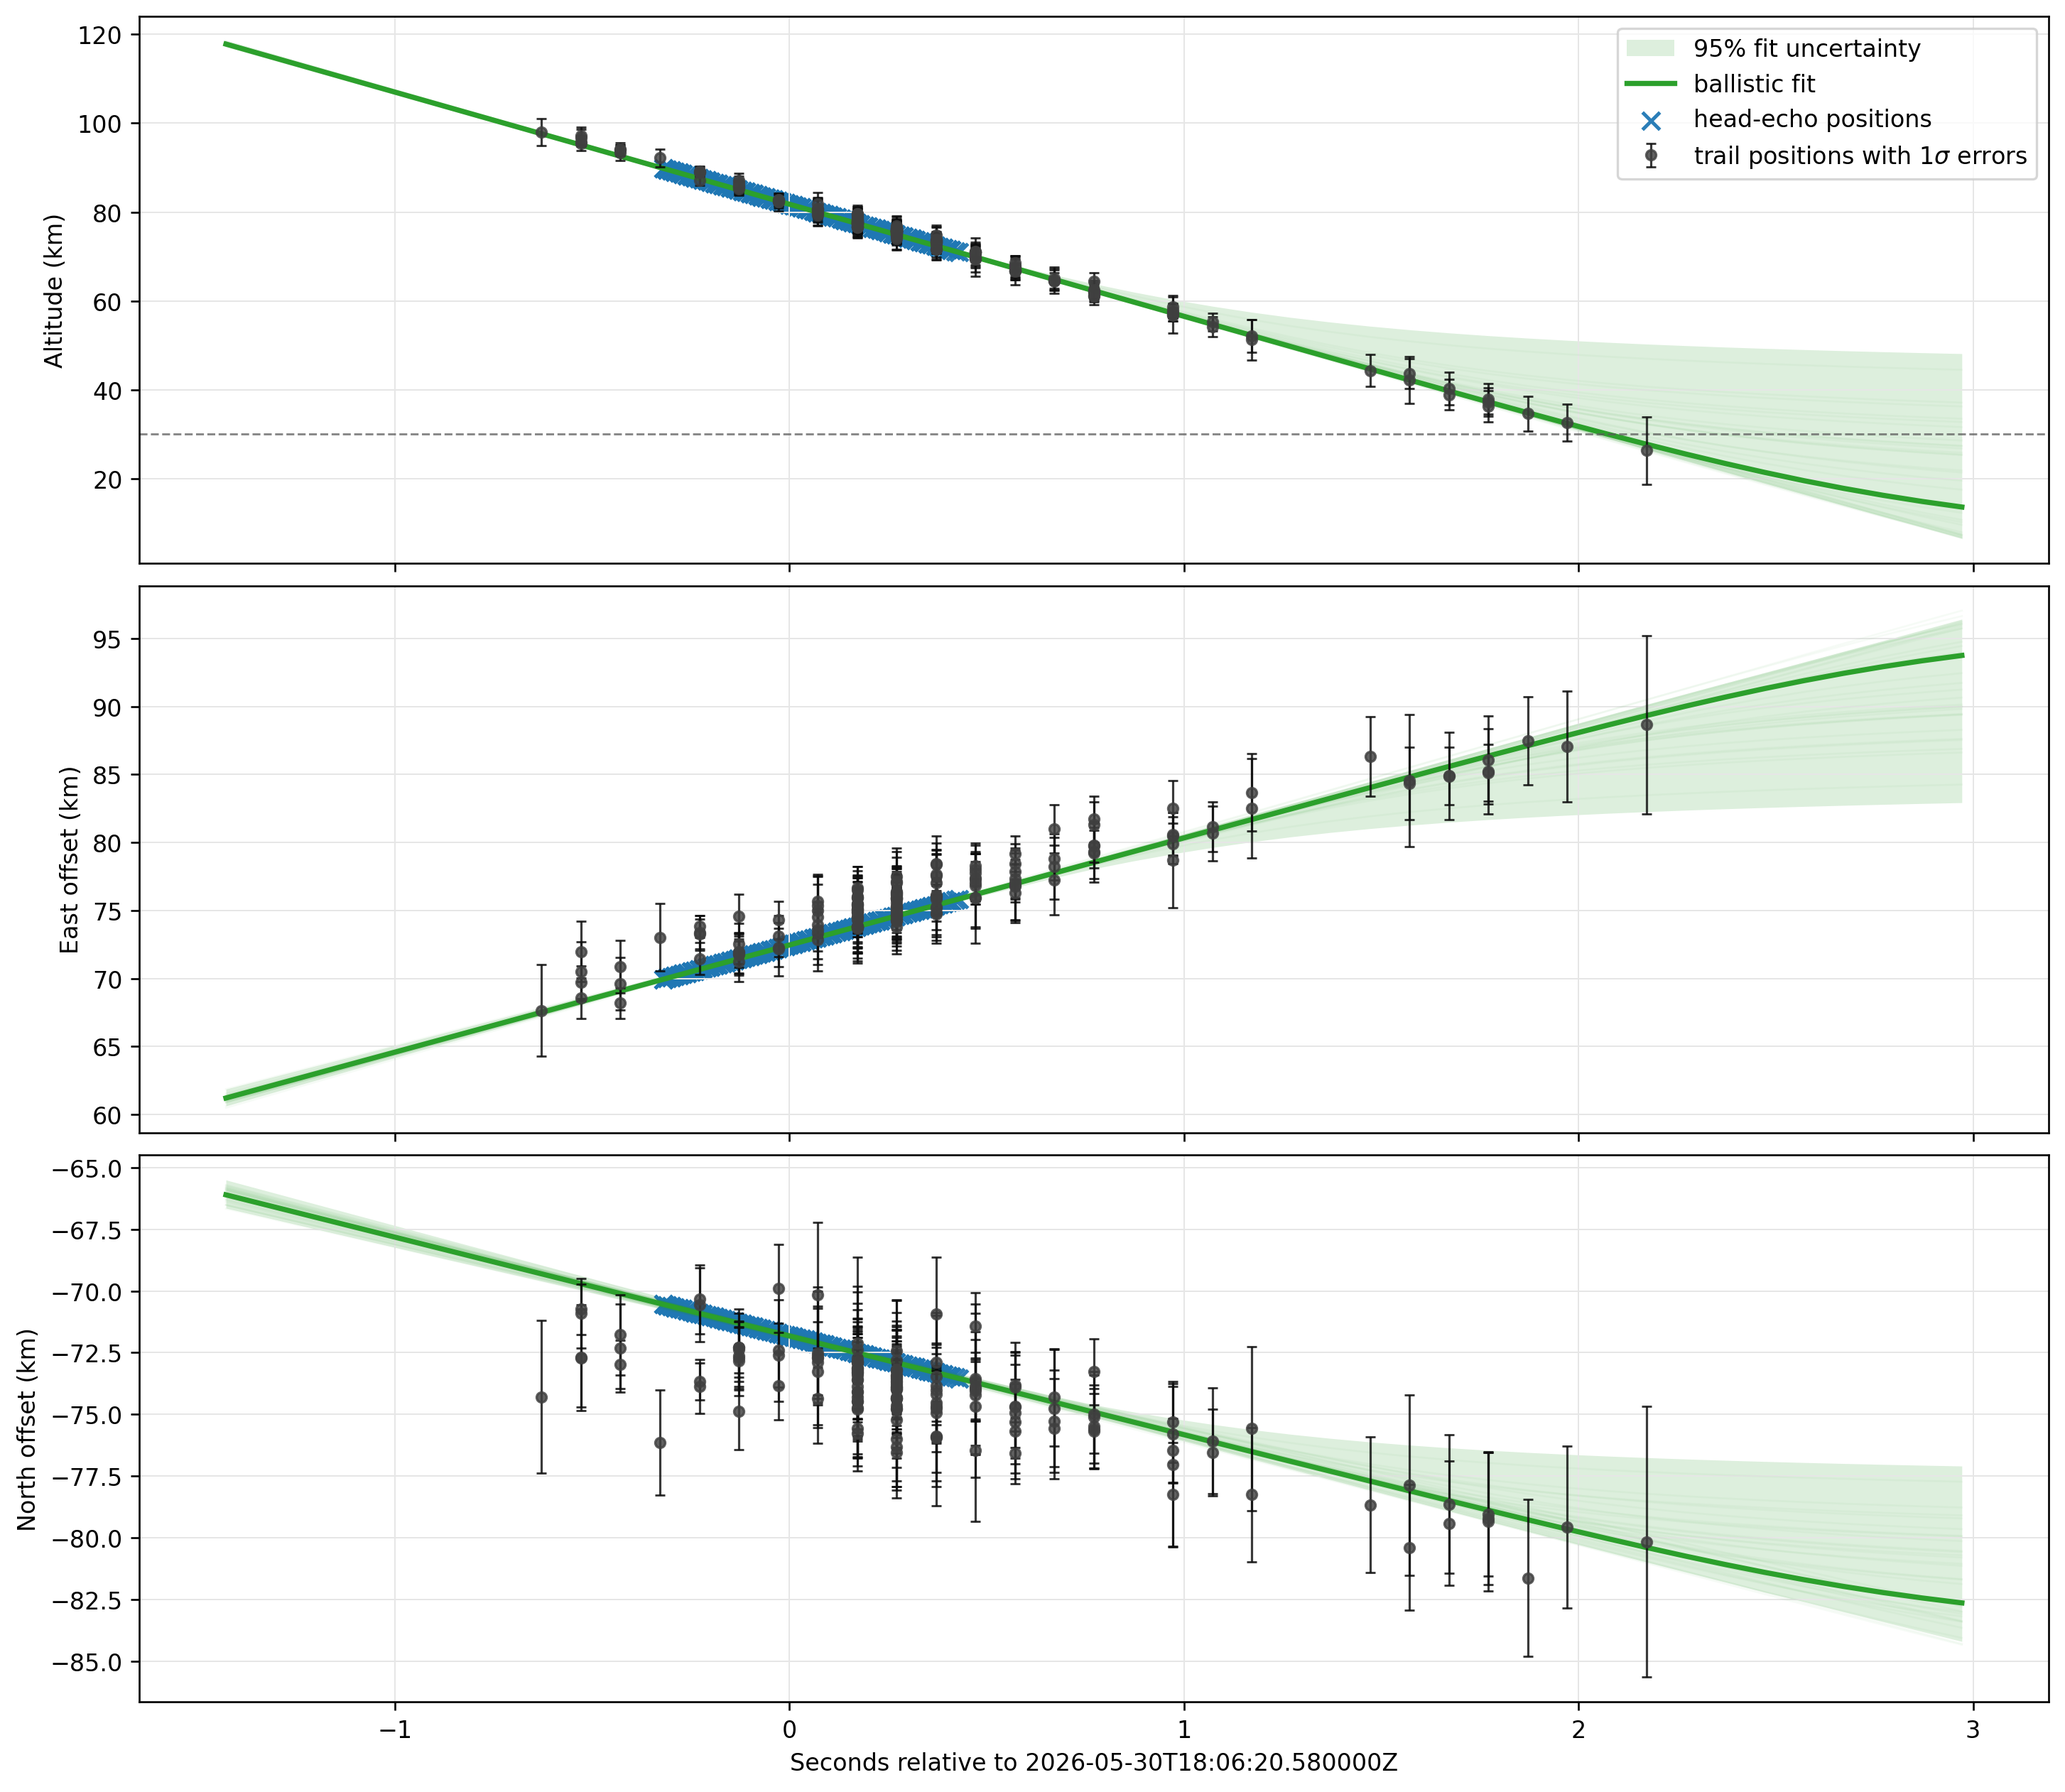
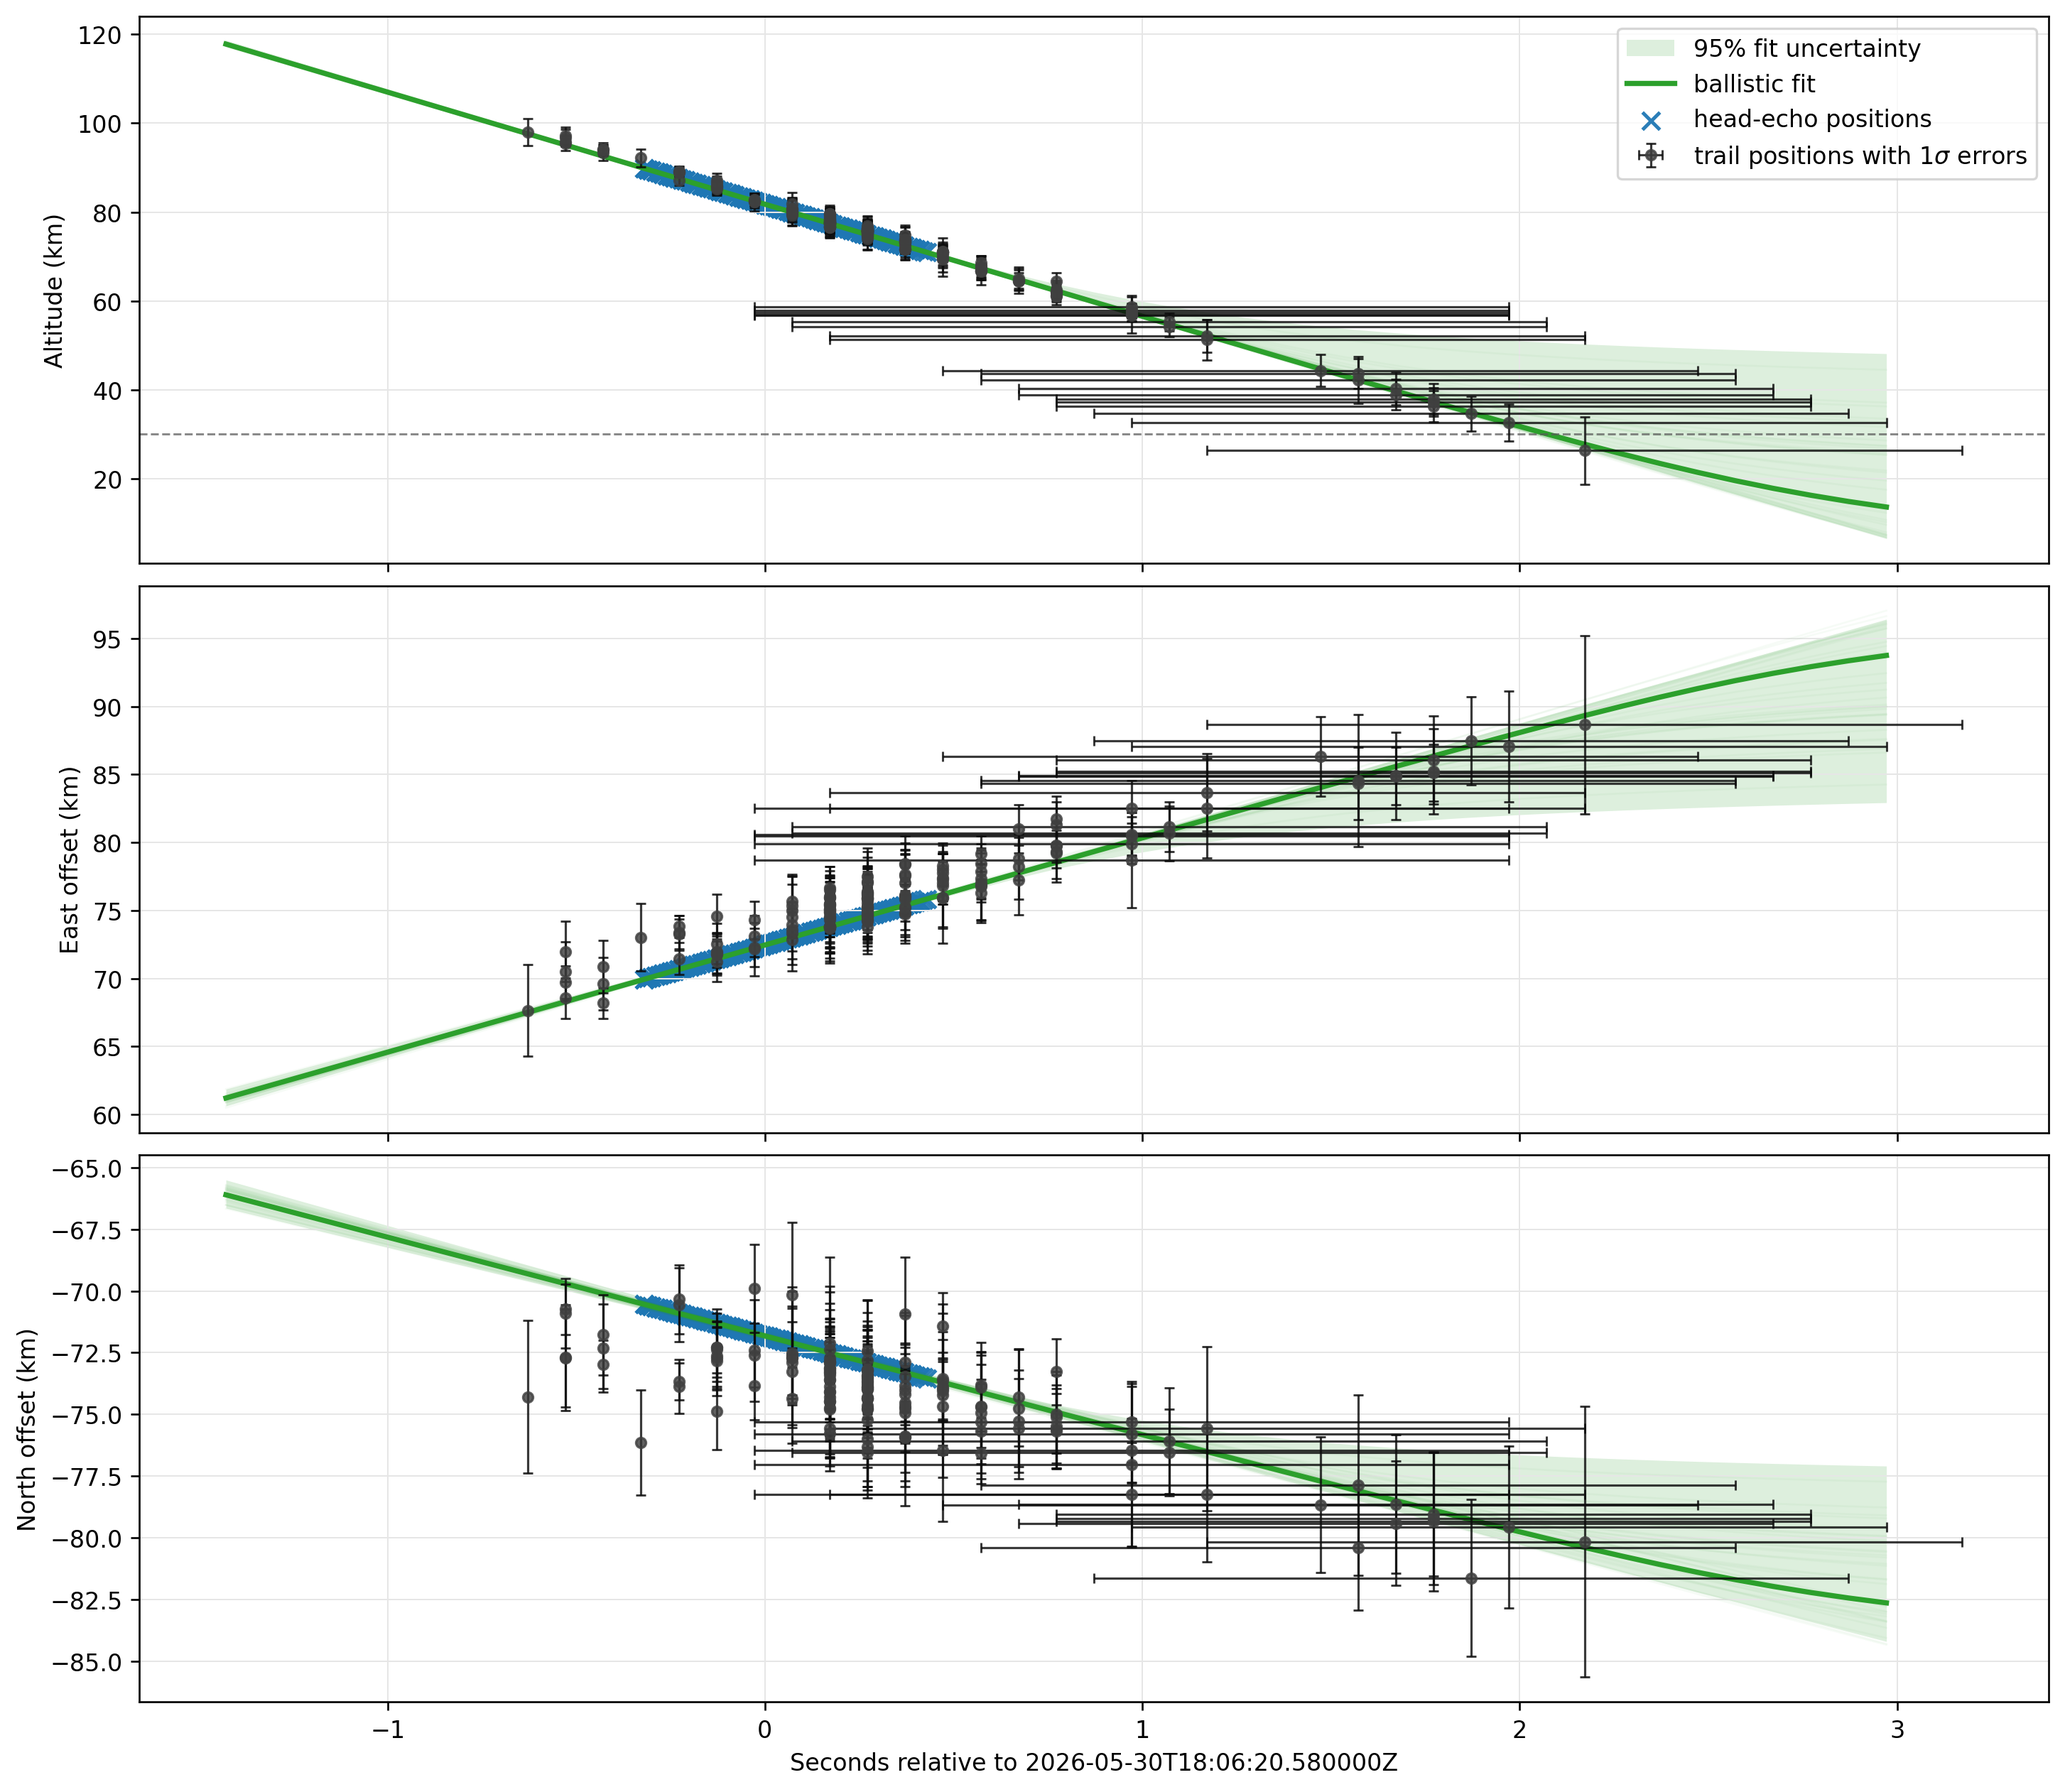
Add trail timing error bars to Figure 5

diff --git a/fit_ballistic_head_trail.py b/fit_ballistic_head_trail.py
@@ -592,6 +592,10 @@ def plot_altitude_enu(
         ],
         dtype=float,
     ) / 1000.0
+    trail_time_sigma = np.zeros(len(trail_rows), dtype=float)
+    if args is not None and args.trail_timing_enable:
+        timed = np.isfinite(trail_alt) & (trail_alt <= args.trail_timing_max_alt_km)
+        trail_time_sigma[timed] = float(args.trail_timing_sigma_s)
     fig, axes = plt.subplots(3, 1, figsize=(12, 10.4), sharex=True, constrained_layout=True)
     tr = t - t_ref
     if params is not None and cov is not None and density_profile is not None and args is not None:
@@ -631,6 +635,7 @@ def plot_altitude_enu(
         ax.errorbar(
             tau,
             scat,
+            xerr=trail_time_sigma,
             yerr=sigma,
             fmt="o",
             ms=4.2,
